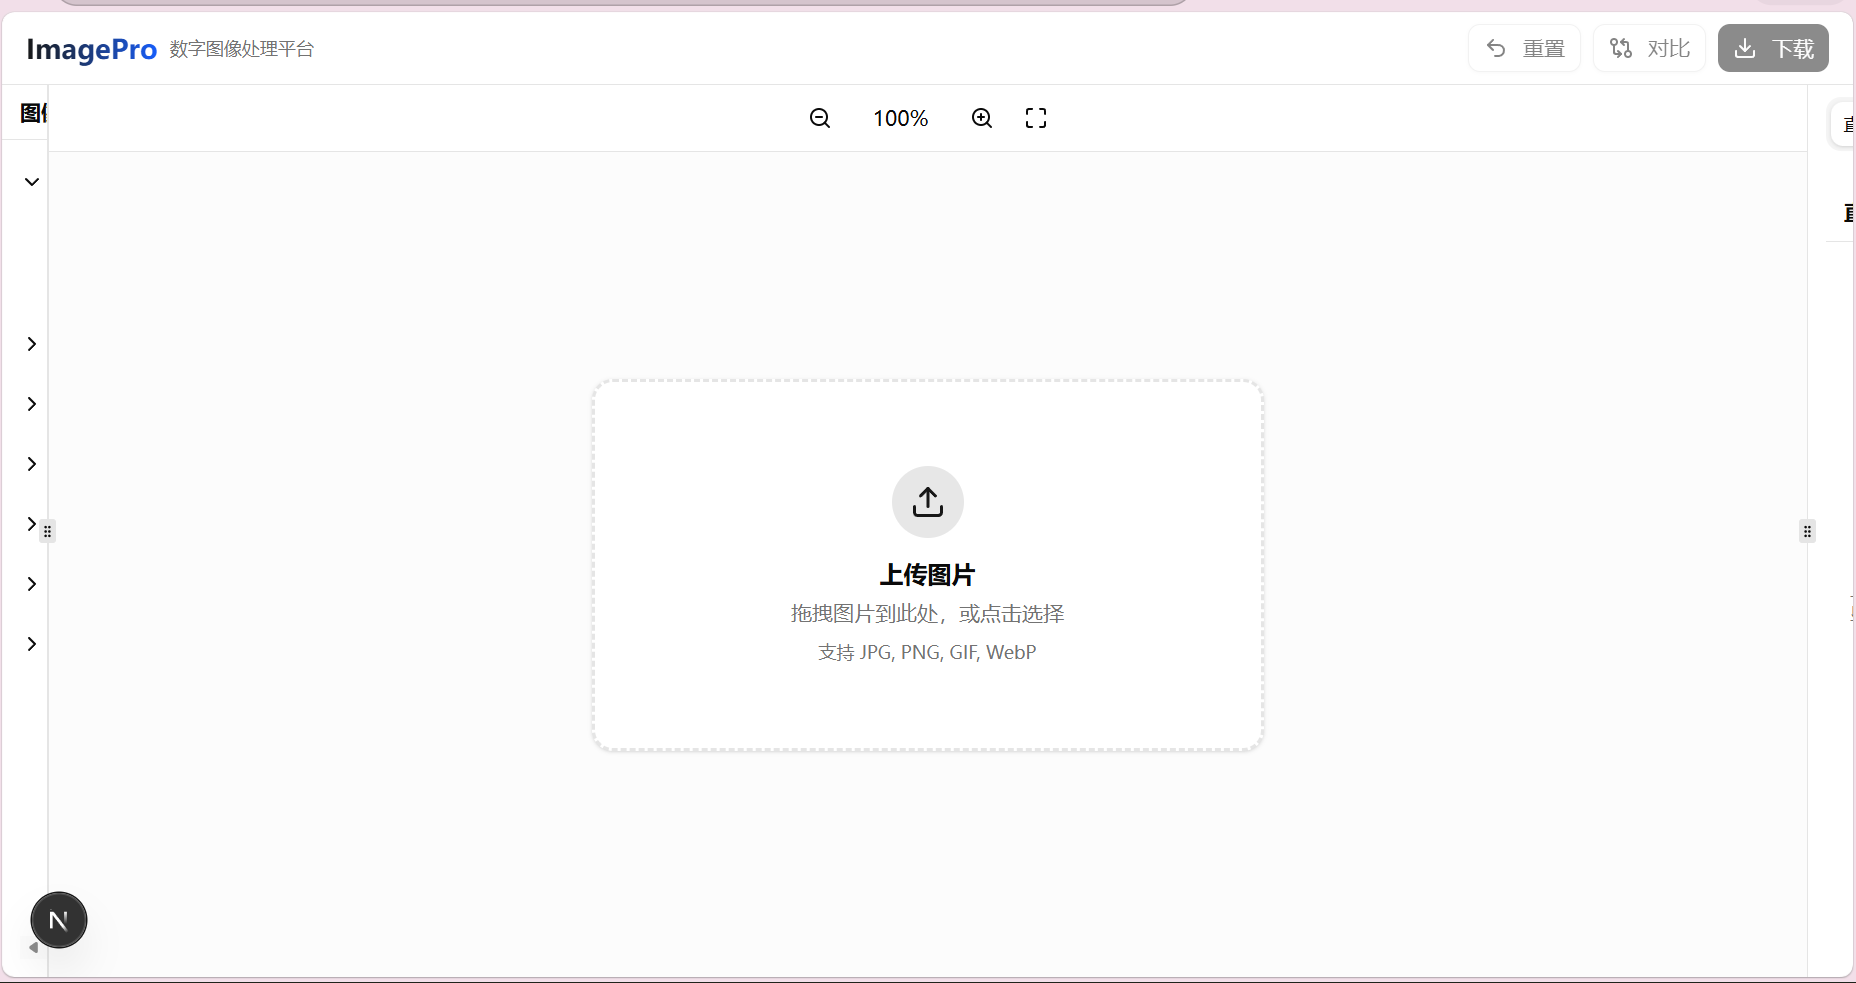
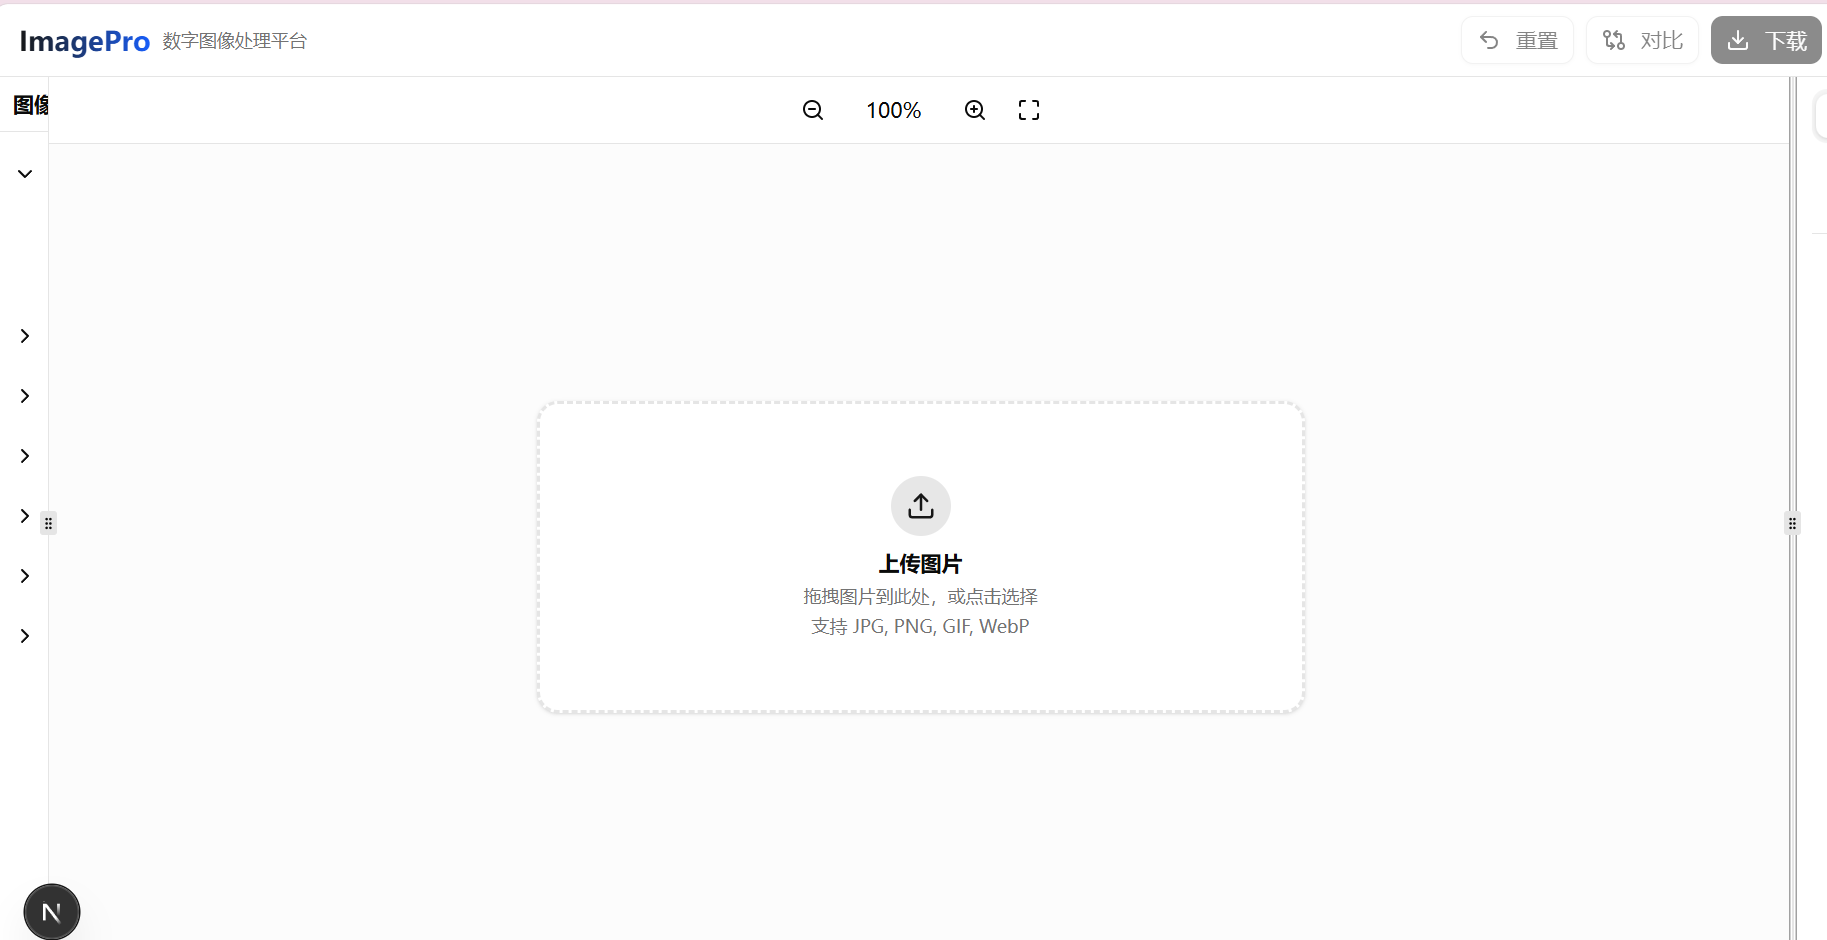
fix: 彻底修复上传组件占据整个页面的布局问题
- 使用固定布局替代 ResizablePanel，确保三个面板都能正确显示
- 左侧操作面板固定宽度 220px
- 右侧直方图/历史面板固定宽度 220px
- 中间图像预览区域使用 flex-1 自适应
- 给 ImageUploader 设置固定尺寸 360x280px，防止自动扩展

diff --git a/src/app/page.tsx b/src/app/page.tsx
@@ -327,104 +327,92 @@ export default function ImageProcessorPage() {
       </header>
 
       {/* 主内容区 */}
-      <div className="flex-1 overflow-hidden">
-        <ResizablePanelGroup orientation="horizontal" className="h-full">
-          {/* 左侧：操作面板 */}
-          <ResizablePanel defaultSize={20} minSize={15} maxSize={35} className="min-w-[200px]">
-            <OperationPanel onApply={applyOperation} isProcessing={isProcessing} />
-          </ResizablePanel>
+      <div className="flex-1 min-h-0 flex">
+        {/* 左侧：操作面板 */}
+        <div className="w-[220px] flex-shrink-0 border-r overflow-hidden">
+          <OperationPanel onApply={applyOperation} isProcessing={isProcessing} />
+        </div>
 
-          <ResizableHandle withHandle />
+        {/* 中间：图像预览 */}
+        <div className="flex-1 min-w-0 flex flex-col overflow-hidden">
+          {/* 缩放控制 */}
+          <div className="flex items-center justify-center gap-2 py-2 border-b bg-background flex-shrink-0">
+            <Button
+              variant="ghost"
+              size="icon"
+              className="h-7 w-7"
+              onClick={() => setZoom(z => Math.max(10, z - 10))}
+            >
+              <ZoomOut className="h-4 w-4" />
+            </Button>
+            <span className="text-sm w-16 text-center">{zoom}%</span>
+            <Button
+              variant="ghost"
+              size="icon"
+              className="h-7 w-7"
+              onClick={() => setZoom(z => Math.min(200, z + 10))}
+            >
+              <ZoomIn className="h-4 w-4" />
+            </Button>
+            <Button
+              variant="ghost"
+              size="icon"
+              className="h-7 w-7"
+              onClick={() => setZoom(100)}
+            >
+              <Maximize className="h-4 w-4" />
+            </Button>
+          </div>
 
-          {/* 中间：图像预览 */}
-          <ResizablePanel defaultSize={60} minSize={40} className="flex flex-col">
-            <div className="h-full flex flex-col">
-              {/* 缩放控制 */}
-              <div className="flex items-center justify-center gap-2 py-2 border-b bg-background flex-shrink-0">
-                <Button
-                  variant="ghost"
-                  size="icon"
-                  className="h-7 w-7"
-                  onClick={() => setZoom(z => Math.max(10, z - 10))}
-                >
-                  <ZoomOut className="h-4 w-4" />
-                </Button>
-                <span className="text-sm w-16 text-center">{zoom}%</span>
-                <Button
-                  variant="ghost"
-                  size="icon"
-                  className="h-7 w-7"
-                  onClick={() => setZoom(z => Math.min(200, z + 10))}
-                >
-                  <ZoomIn className="h-4 w-4" />
-                </Button>
-                <Button
-                  variant="ghost"
-                  size="icon"
-                  className="h-7 w-7"
-                  onClick={() => setZoom(100)}
-                >
-                  <Maximize className="h-4 w-4" />
-                </Button>
-              </div>
-
-              {/* 图像显示区 */}
-              <div className="flex-1 overflow-auto flex items-center justify-center p-4 bg-muted/30">
-                {displayImage ? (
-                  <div
-                    className="relative transition-transform duration-200 origin-center"
-                    style={{ transform: `scale(${zoom / 100})` }}
-                  >
-                    <img
-                      src={displayImage.dataUrl}
-                      alt=""
-                      className="max-w-full max-h-[calc(100vh-200px)] object-contain rounded-lg shadow-lg"
-                    />
-                    {isProcessing && (
-                      <div className="absolute inset-0 bg-black/20 flex items-center justify-center rounded-lg">
-                        <div className="bg-background px-4 py-2 rounded-lg shadow-lg">
-                          <span className="text-sm">处理中...</span>
-                        </div>
-                      </div>
-                    )}
+          {/* 图像显示区 */}
+          <div className="flex-1 min-h-0 overflow-auto flex items-center justify-center p-4 bg-muted/30">
+            {displayImage ? (
+              <div
+                className="relative transition-transform duration-200 origin-center"
+                style={{ transform: `scale(${zoom / 100})` }}
+              >
+                <img
+                  src={displayImage.dataUrl}
+                  alt=""
+                  className="max-w-full max-h-full object-contain rounded-lg shadow-lg"
+                />
+                {isProcessing && (
+                  <div className="absolute inset-0 bg-black/20 flex items-center justify-center rounded-lg">
+                    <div className="bg-background px-4 py-2 rounded-lg shadow-lg">
+                      <span className="text-sm">处理中...</span>
+                    </div>
                   </div>
-                ) : (
-                  <ImageUploader
-                    onImageLoad={setCurrentImage}
-                    currentImage={null}
-                  />
                 )}
               </div>
-            </div>
-          </ResizablePanel>
+            ) : (
+              <ImageUploader
+                onImageLoad={setCurrentImage}
+                currentImage={null}
+              />
+            )}
+          </div>
+        </div>
 
-          <ResizableHandle withHandle />
-
-          {/* 右侧：直方图和历史 */}
-          <ResizablePanel defaultSize={20} minSize={15} maxSize={35} className="min-w-[200px]">
-            <Tabs defaultValue="histogram" className="h-full flex flex-col">
-              <TabsList className="mx-3 mt-2 flex-shrink-0">
-                <TabsTrigger value="histogram" className="text-xs">直方图</TabsTrigger>
-                <TabsTrigger value="history" className="text-xs">历史</TabsTrigger>
-              </TabsList>
-              <TabsContent value="histogram" className="flex-1 m-0 overflow-hidden">
-                <div className="p-3 h-full overflow-auto">
-                  <Histogram dataUrl={displayImage?.dataUrl || ''} />
-                </div>
-              </TabsContent>
-              <TabsContent value="history" className="flex-1 m-0 overflow-hidden">
-                <div className="p-3 h-full overflow-auto">
-                  <HistoryPanel
-                    entries={history}
-                    currentId={processedImage?.id}
-                    onRestore={handleRestore}
-                    onClear={handleClearHistory}
-                  />
-                </div>
-              </TabsContent>
-            </Tabs>
-          </ResizablePanel>
-        </ResizablePanelGroup>
+        {/* 右侧：直方图和历史 */}
+        <div className="w-[220px] flex-shrink-0 border-l overflow-hidden">
+          <Tabs defaultValue="histogram" className="h-full w-full flex flex-col">
+            <TabsList className="mx-2 mt-2 flex-shrink-0">
+              <TabsTrigger value="histogram" className="text-xs">直方图</TabsTrigger>
+              <TabsTrigger value="history" className="text-xs">历史</TabsTrigger>
+            </TabsList>
+            <TabsContent value="histogram" className="flex-1 min-h-0 m-0 overflow-auto p-2">
+              <Histogram dataUrl={displayImage?.dataUrl || ''} />
+            </TabsContent>
+            <TabsContent value="history" className="flex-1 min-h-0 m-0 overflow-auto p-2">
+              <HistoryPanel
+                entries={history}
+                currentId={processedImage?.id}
+                onRestore={handleRestore}
+                onClear={handleClearHistory}
+              />
+            </TabsContent>
+          </Tabs>
+        </div>
       </div>
 
       {/* 对比视图 */}

diff --git a/src/components/image-uploader.tsx b/src/components/image-uploader.tsx
@@ -117,7 +117,8 @@ export function ImageUploader({ onImageLoad, currentImage, onClear }: ImageUploa
   return (
     <Card
       className={cn(
-        "border-2 border-dashed transition-colors cursor-pointer w-full max-w-lg mx-auto",
+        "border-2 border-dashed transition-colors cursor-pointer",
+        "w-[360px] h-[280px] flex-shrink-0",
         isDragging && "border-primary bg-primary/5",
         isLoading && "opacity-50 pointer-events-none"
       )}
@@ -126,7 +127,7 @@ export function ImageUploader({ onImageLoad, currentImage, onClear }: ImageUploa
       onDragLeave={handleDragLeave}
       onClick={() => document.getElementById('file-input')?.click()}
     >
-      <div className="flex flex-col items-center justify-center py-6 px-4 text-center">
+      <div className="flex flex-col items-center justify-center h-full text-center px-4">
         <div className="mb-2 rounded-full bg-primary/10 p-2.5">
           <Upload className="h-5 w-5 text-primary" />
         </div>
